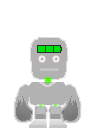
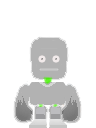
-

Changed region(s): [[0.375, 0.3438, 0.6562, 0.4375]]

diff --git a/PlatformerGame.py b/PlatformerGame.py
@@ -8,8 +8,8 @@ import os
 import timeit
 
 # Constants
-SCREEN_WIDTH = 1000
-SCREEN_HEIGHT = 650
+SCREEN_WIDTH = 1280  # 1000
+SCREEN_HEIGHT = 720  # 650
 SCREEN_TITLE = "Platformer"
 
 # Constants used to scale our sprites from their original size
@@ -20,7 +20,7 @@ SPRITE_PIXEL_SIZE = 128
 GRID_PIXEL_SIZE = (SPRITE_PIXEL_SIZE * TILE_SCALING)
 
 # Movement speed of player, in pixels per frame
-PLAYER_MOVEMENT_SPEED = 70
+PLAYER_MOVEMENT_SPEED = 10
 GRAVITY = 1.5
 PLAYER_JUMP_SPEED = 30
 
@@ -276,7 +276,7 @@ class GameView(arcade.View):
         self.view_left = 0
 
         # Keep track of the score
-        self.score = 0
+        self.score = 3
 
         # Create the Sprite lists
         self.player_list = arcade.SpriteList()
@@ -378,21 +378,6 @@ class GameView(arcade.View):
         # Clear the screen to the background color
         arcade.start_render()
 
-        if self.debug:
-            # Display timings
-            output = f"Processing time: {self.processing_time:.3f}"
-            arcade.draw_text(output, 10 + self.view_left, 620 + self.view_bottom,
-                             arcade.csscolor.BLACK, 18)
-
-            output = f"Drawing time: {self.draw_time:.3f}"
-            arcade.draw_text(output, 10 + self.view_left, 600 + self.view_bottom,
-                             arcade.csscolor.BLACK, 18)
-
-            if self.fps is not None:
-                output = f"FPS: {self.fps:.0f}"
-                arcade.draw_text(output, 10 + self.view_left, 580 + self.view_bottom,
-                                 arcade.csscolor.BLACK, 18)
-
         # Stop the draw timer, and calculate total on_draw time.
         self.draw_time = timeit.default_timer() - start_time
 
@@ -405,10 +390,16 @@ class GameView(arcade.View):
         self.dont_touch_list.draw()
         self.foreground_list.draw()
 
-        # Draw our score on the screen, scrolling it with the viewport
-        score_text = f"Health: {self.score}"
-        arcade.draw_text(score_text, 10 + self.view_left, 10 + self.view_bottom,
-                         arcade.csscolor.BLACK, 18)
+        # Change the health texture to math the player's health
+        if self.score == 3:
+            self.health_texture = arcade.load_texture("maps/images/person/health_3.png")
+        elif self.score == 2:
+            self.health_texture = arcade.load_texture("maps/images/person/health_2.png")
+
+        # Draw our health on the screen, scrolling it with the character
+        self.health_texture.draw_sized(self.player_sprite.center_x + 1.5, self.player_sprite.center_y + 16,
+                                       25, 10)
+
         # Keep track of tutorial text
         if self.tutorial_num == 0:
             self.tutorial = "Use A and D keys to move"
@@ -429,6 +420,26 @@ class GameView(arcade.View):
         #     wall.draw_hit_box(arcade.color.BLACK, 3)
         #
         # self.player_sprite.draw_hit_box(arcade.color.RED, 3)
+        if self.debug:
+            # Draw hit boxes.
+            for wall in self.wall_list:
+                wall.draw_hit_box(arcade.color.BLACK, 3)
+
+            self.player_sprite.draw_hit_box(arcade.color.RED, 3)
+
+            # Display timings
+            output = f"Processing time: {self.processing_time:.3f}"
+            arcade.draw_text(output, 10 + self.view_left, 620 + self.view_bottom,
+                             arcade.csscolor.BLACK, 18)
+
+            output = f"Drawing time: {self.draw_time:.3f}"
+            arcade.draw_text(output, 10 + self.view_left, 600 + self.view_bottom,
+                             arcade.csscolor.BLACK, 18)
+
+            if self.fps is not None:
+                output = f"FPS: {self.fps:.0f}"
+                arcade.draw_text(output, 10 + self.view_left, 580 + self.view_bottom,
+                                 arcade.csscolor.BLACK, 18)
 
     def process_keychange(self):
         """
